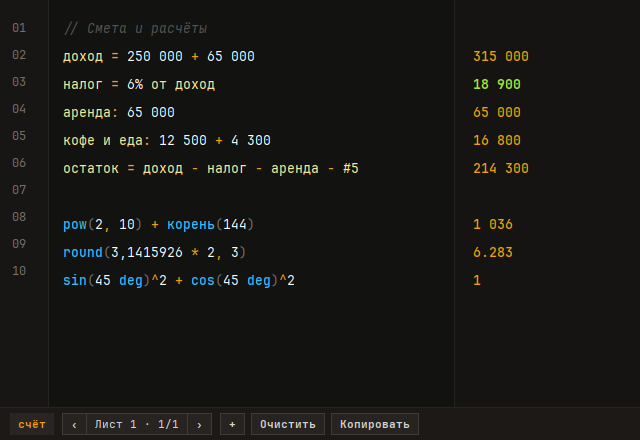
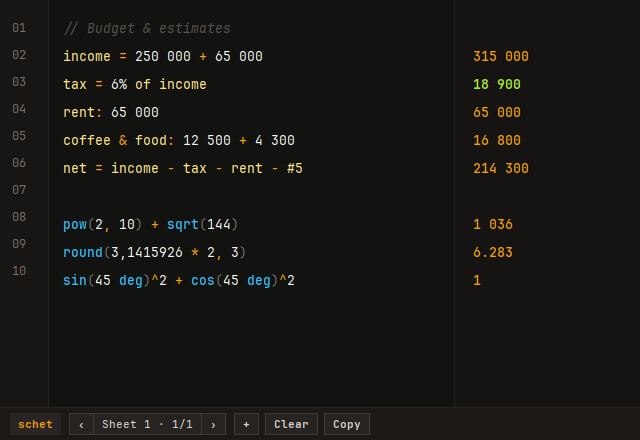
Switch README and screenshots to English, add automatic locale UI detection

diff --git a/src/main.rs b/src/main.rs
@@ -23,12 +23,34 @@ struct AppState {
     pages: Vec<Page>,
 }
 
+fn is_russian_locale() -> bool {
+    if let Ok(lang) = std::env::var("SCHET_LANG") {
+        return lang.to_lowercase().starts_with("ru");
+    }
+    for var in ["LC_ALL", "LC_MESSAGES", "LANG"] {
+        if let Ok(val) = std::env::var(var) {
+            if !val.is_empty() {
+                return val.to_lowercase().starts_with("ru");
+            }
+        }
+    }
+    true
+}
+
+fn default_page_title(num: usize) -> String {
+    if is_russian_locale() {
+        format!("Лист {}", num)
+    } else {
+        format!("Sheet {}", num)
+    }
+}
+
 impl Default for AppState {
     fn default() -> Self {
         Self {
             active_page: 0,
             pages: vec![Page {
-                title: "Лист 1".to_string(),
+                title: default_page_title(1),
                 content: String::new(),
             }],
         }
@@ -46,18 +68,23 @@ fn state_file_path() -> PathBuf {
 }
 
 fn load_state() -> AppState {
+    let ru = is_russian_locale();
     let path = state_file_path();
     if let Ok(raw) = fs::read_to_string(path) {
         if let Ok(mut st) = serde_json::from_str::<AppState>(&raw) {
             if st.pages.is_empty() {
                 st.pages.push(Page {
-                    title: "Лист 1".to_string(),
+                    title: default_page_title(1),
                     content: String::new(),
                 });
             }
             for p in &mut st.pages {
-                if let Some(num) = p.title.strip_prefix("Page ") {
-                    p.title = format!("Лист {}", num);
+                if ru {
+                    if let Some(num) = p.title.strip_prefix("Page ").or_else(|| p.title.strip_prefix("Sheet ")) {
+                        p.title = format!("Лист {}", num);
+                    }
+                } else if let Some(num) = p.title.strip_prefix("Лист ").or_else(|| p.title.strip_prefix("Page ")) {
+                    p.title = format!("Sheet {}", num);
                 }
             }
             if st.active_page >= st.pages.len() {
@@ -426,25 +453,26 @@ fn main() {
     scrolled.add(&split_box);
     root_box.pack_start(&scrolled, true, true, 0);
 
-    // --- Single Bottom Hardware Bar (Russian, no auto-sum) ---
+    // --- Single Bottom Hardware Bar (locale-aware, no auto-sum) ---
+    let ru = is_russian_locale();
     let bottom_bar = gtk::Box::new(gtk::Orientation::Horizontal, 6);
     bottom_bar.style_context().add_class("bottom-bar");
 
-    let brand_label = gtk::Label::new(Some("счёт"));
+    let brand_label = gtk::Label::new(Some(if ru { "счёт" } else { "schet" }));
     brand_label.style_context().add_class("brand-label");
     bottom_bar.pack_start(&brand_label, false, false, 0);
 
     let page_nav_box = gtk::Box::new(gtk::Orientation::Horizontal, 0);
     let prev_page_btn = gtk::Button::with_label("‹");
     prev_page_btn.style_context().add_class("flat-btn");
-    prev_page_btn.set_tooltip_text(Some("Предыдущий лист"));
+    prev_page_btn.set_tooltip_text(Some(if ru { "Предыдущий лист" } else { "Previous sheet" }));
 
-    let page_title_label = gtk::Label::new(Some("Лист 1 · 1/1"));
+    let page_title_label = gtk::Label::new(Some(if ru { "Лист 1 · 1/1" } else { "Sheet 1 · 1/1" }));
     page_title_label.style_context().add_class("page-pill");
 
     let next_page_btn = gtk::Button::with_label("›");
     next_page_btn.style_context().add_class("flat-btn");
-    next_page_btn.set_tooltip_text(Some("Следующий лист"));
+    next_page_btn.set_tooltip_text(Some(if ru { "Следующий лист" } else { "Next sheet" }));
 
     page_nav_box.pack_start(&prev_page_btn, false, false, 0);
     page_nav_box.pack_start(&page_title_label, false, false, 0);
@@ -453,17 +481,17 @@ fn main() {
 
     let new_page_btn = gtk::Button::with_label("+");
     new_page_btn.style_context().add_class("flat-btn");
-    new_page_btn.set_tooltip_text(Some("Новый лист (Ctrl+N)"));
+    new_page_btn.set_tooltip_text(Some(if ru { "Новый лист (Ctrl+N)" } else { "New sheet (Ctrl+N)" }));
     bottom_bar.pack_start(&new_page_btn, false, false, 0);
 
-    let clear_btn = gtk::Button::with_label("Очистить");
+    let clear_btn = gtk::Button::with_label(if ru { "Очистить" } else { "Clear" });
     clear_btn.style_context().add_class("flat-btn");
-    clear_btn.set_tooltip_text(Some("Очистить лист (Ctrl+L)"));
+    clear_btn.set_tooltip_text(Some(if ru { "Очистить лист (Ctrl+L)" } else { "Clear sheet (Ctrl+L)" }));
     bottom_bar.pack_start(&clear_btn, false, false, 0);
 
-    let copy_all_btn = gtk::Button::with_label("Копировать");
+    let copy_all_btn = gtk::Button::with_label(if ru { "Копировать" } else { "Copy" });
     copy_all_btn.style_context().add_class("flat-btn");
-    copy_all_btn.set_tooltip_text(Some("Скопировать все ответы"));
+    copy_all_btn.set_tooltip_text(Some(if ru { "Скопировать все ответы" } else { "Copy all results" }));
     bottom_bar.pack_start(&copy_all_btn, false, false, 0);
 
     let status_right = gtk::Label::new(Some(""));
@@ -676,7 +704,11 @@ fn main() {
                     let formatted = format_number(*val);
                     let clip = gtk::Clipboard::get(&gdk::SELECTION_CLIPBOARD);
                     clip.set_text(&formatted);
-                    status_right.set_text(&format!("Скопировано: {}", formatted));
+                    if ru {
+                        status_right.set_text(&format!("Скопировано: {}", formatted));
+                    } else {
+                        status_right.set_text(&format!("Copied: {}", formatted));
+                    }
                 }
             }
             glib::Propagation::Proceed
@@ -743,7 +775,7 @@ fn main() {
                         let active = st.active_page;
                         st.pages.remove(active);
                         for (idx, p) in st.pages.iter_mut().enumerate() {
-                            p.title = format!("Лист {}", idx + 1);
+                            p.title = default_page_title(idx + 1);
                         }
                         if st.active_page >= st.pages.len() {
                             st.active_page = st.pages.len() - 1;
@@ -756,12 +788,12 @@ fn main() {
                 };
                 if removed {
                     load_active_page();
-                    status_right.set_text("Лист удалён");
+                    status_right.set_text(if ru { "Лист удалён" } else { "Sheet deleted" });
                     return;
                 }
             }
             input_buf.set_text("");
-            status_right.set_text("Очищено");
+            status_right.set_text(if ru { "Очищено" } else { "Cleared" });
         });
     }
 
@@ -778,7 +810,11 @@ fn main() {
             let joined = lines.join("\n");
             let clip = gtk::Clipboard::get(&gdk::SELECTION_CLIPBOARD);
             clip.set_text(&joined);
-            status_right.set_text(&format!("Скопировано строк: {}", lines.len()));
+            if ru {
+                status_right.set_text(&format!("Скопировано строк: {}", lines.len()));
+            } else {
+                status_right.set_text(&format!("Copied lines: {}", lines.len()));
+            }
         });
     }
 
@@ -791,7 +827,7 @@ fn main() {
                 let mut st = state.borrow_mut();
                 let next_num = st.pages.len() + 1;
                 st.pages.push(Page {
-                    title: format!("Лист {}", next_num),
+                    title: default_page_title(next_num),
                     content: String::new(),
                 });
                 st.active_page = st.pages.len() - 1;

diff --git a/README.md b/README.md
@@ -1,85 +1,85 @@
-# счёт (`schet`)
+# schet (`счёт`)
 
-**Блокнотный калькулятор на чистом Rust + GTK3 для тех, кто устал кормить отдельный браузер шестью сотнями мегабайт оперативки ради того, чтобы поделить счёт за пиццу или прикинуть налог.**
+**A native Rust + GTK3 notepad calculator built because feeding 700+ MB of RAM to an entire Chromium instance just to split a pizza bill or figure out taxes is ridiculous.**
 
-`счёт` вдохновлён [Numara Calculator](https://github.com/bornova/numara-calculator) и Soulver, но выкидывает за борт Electron, Chromium, Node.js, WebKitGTK и две тысячи пакетов из `node_modules`. Взамен — один нативный бинарник весом **472 КБ**, холодный старт быстрее кадра твоего монитора и **12.6 МБ** собственной памяти.
+`schet` takes the best ideas from [Numara Calculator](https://github.com/bornova/numara-calculator) and Soulver, then throws Electron, Chromium, Node.js, WebKitGTK, and two thousand `node_modules` packages out the window. What remains is a single **472 KB** native binary, cold start faster than a single monitor frame, and **12.6 MB** of actual private memory.
 
-![Счёт — Тёмная и светлая темы](assets/dark.png)
-![Счёт — Светлая тема](assets/light.png)
+![schet — Dark theme](assets/dark.png)
+![schet — Light theme](assets/light.png)
 
 ---
 
-## Зачем это нужно (в цифрах, а не обещаниях)
+## Why I built this (in numbers, not marketing)
 
-Мы честно пытались пойти компромиссным путём и сначала пересадили фронтенд Numara (`mathjs` + `CodeMirror`) на Tauri / Wry поверх системного `WebKitGTK`. Спойлер: браузерный движок остаётся браузерным движком, даже если приклеить к нему шильдик «Rust».
+I initially tried the lazy route: ripping Electron out of Numara and wrapping its `mathjs` + `CodeMirror` frontend in Tauri / Wry on top of the system `WebKitGTK`. Spoiler: a browser engine is still a browser engine even if you slap a "Built with Rust" sticker on the box.
 
-Реальные замеры по `/proc/<pid>/smaps_rollup` на одной и той же странице расчётов (Arch Linux / Wayland / Niri):
+Here are the real memory measurements from `/proc/<pid>/smaps_rollup` on the exact same calculation sheet (Arch Linux / Wayland / Niri):
 
-| Вариант | Стек | Процессы | Размер бинарника | RSS (общая) | PSS | Private Dirty (реально сожрано) |
+| Build | Stack | Processes | Binary Size | Total RSS | PSS | Private Dirty (actual footprint) |
 | :--- | :--- | :---: | :---: | :---: | :---: | :---: |
-| **Numara (`numara-bin`)** | Electron 45 + Chromium + V8 | 6 | ~180 МБ | 738.2 МБ | 378.9 МБ | **178.6 МБ** |
-| **Wry / Tauri прототип** | Rust + WebKitGTK 4.1 + JavaScriptCore | 4 | 3.5 МБ | 509.9 МБ | 361.8 МБ | **225.7 МБ** |
-| **`счёт` (`schet`)** | **Rust + GTK3 (нативный рендер и парсер)** | **1** | **472 КБ** | **73.6 МБ** | **34.0 МБ** | **12.6 МБ** |
+| **Numara (`numara-bin`)** | Electron 45 + Chromium + V8 | 6 | ~180 MB | 738.2 MB | 378.9 MB | **178.6 MB** |
+| **Wry / Tauri prototype** | Rust + WebKitGTK 4.1 + JavaScriptCore | 4 | 3.5 MB | 509.9 MB | 361.8 MB | **225.7 MB** |
+| **`schet`** | **Pure Rust + GTK3 (native UI & parser)** | **1** | **472 KB** | **73.6 MB** | **34.0 MB** | **12.6 MB** |
 
-Никаких фоновых воркеров, сетевых запросов, телеметрии, автоапдейтеров и скрытых заголовков окон. Открыл — посчитал — скопировал ответ кликом.
+Zero background workers, zero network calls, zero telemetry, zero auto-updaters, and no bulky titlebars. Open it, type your math, click an answer to copy, move on.
 
 ---
 
-## Что умеет движок
+## What the engine understands
 
-Собственный рекурсивный парсер (`src/eval.rs`) без единой внешней математической зависимости понимает живой человеческий текст вперемешку с формулами:
+`schet` runs a custom recursive-descent parser (`src/eval.rs`) with zero external math crates. It evaluates messy human notes mixed with formulas on every keystroke:
 
-- **Переменные и метки на русском и английском:**
+- **Variables, labels, and compound assignments (English & Cyrillic):**
   ```text
-  доход = 250 000 + 65 000        -> 315 000
-  налог = 6% от доход             -> 18 900
-  аренда: 65 000                  -> 65 000
-  кофе и еда: 12 500 + 4 300      -> 16 800
-  доход += 50к                    -> 365 000
+  income = 250 000 + 65 000       -> 315 000
+  tax = 6% of income              -> 18 900
+  rent: 65 000                    -> 65 000
+  coffee: 12 500 + 4 300          -> 16 800
+  income += 50k                   -> 365 000
   ```
-- **Числа с пробелами и запятыми без боли при копипасте:**
-  Скопировал `315 000` из колонки ответов или банковской выписки и вставил обратно в формулу? `счёт` не развалится и поймёт группировку разрядов (`250 000 + 65 000`), суффиксы (`15k`, `250к`, `2.5m`, `1.2м`, `1b`), шестнадцатеричные (`0xff`), двоичные (`0b1010`) числа и десятичную запятую (`3,14 * 2`), при этом не путая её с разделителем аргументов в `round(3,1415926 * 2, 3)` или `pow(2,10)`.
-- **Проценты по-человечески:**
+- **Copy-paste friendly numbers & decimal commas:**
+  Copied `315 000` from the answer rail or a bank statement and pasted it back into an expression? `schet` doesn't choke on space-grouped thousands (`250 000 + 65 000`), understands magnitude suffixes (`15k`, `250к`, `2.5m`, `1.2м`, `1b`), hex (`0xff`), binary (`0b1010`), and decimal commas (`3,14 * 2`) — while still telling a decimal comma apart from function argument commas in `round(3,1415926 * 2, 3)` or `pow(2,10)`.
+- **Human-style percentages:**
   - `1250 + 20%` → `1 500`
   - `1250 - 20%` → `1 000`
   - `20% of 1250` / `6% от 250к` / `15% из 80 000`
   - `120 / (1 + 20%)` → `100`
-- **Ссылки на строки и агрегации по блокам:**
-  - `#1`, `#5`, `line2`, `строка1` — подставить результат конкретной строки.
-  - `prev`, `ans`, `_`, `пред`, `ответ` — результат предыдущей вычисленной строки.
-  - `sum` / `total` / `сумма` / `итого` и `avg` / `mean` / `среднее` — сумма или среднее по текущему блоку строк (до пустой строки) либо по переданным аргументам.
-- **Математические функции и градусы:**
+- **Line references & block aggregations:**
+  - `#1`, `#5`, `line2`, `строка1` — reference the result of any specific line.
+  - `prev`, `ans`, `_`, `пред`, `ответ` — grab the previous evaluated line's result.
+  - `sum` / `total` / `сумма` / `итого` and `avg` / `mean` / `среднее` — sum or average the current contiguous block of lines (up to an empty line) or explicit arguments.
+- **Built-in math functions, degrees & operators:**
   - `sqrt` (`корень`), `cbrt`, `abs` (`модуль`), `round(x, [n])` (`окр`), `floor`, `ceil`, `trunc`
-  - `pow(a, b)` (`степень`), `min(...)` (`мин`), `max(...)` (`макс`), `fact(n)` и постфиксный факториал `5!`
+  - `pow(a, b)` (`степень`), `min(...)` (`мин`), `max(...)` (`макс`), `fact(n)` and postfix factorial `5!`
   - `sin`, `cos`, `tan`, `asin`, `acos`, `atan`, `sinh`, `cosh`, `tanh`, `ln`, `log`, `log2`, `log10`, `exp`
-  - Постфикс `deg` / `°` / `град`: `sin(45 deg)^2 + cos(45°)^2` → `1`
-  - Целочисленное деление `10 // 3` → `3` и остаток `10 % 3` / `10 mod 3` → `1` (умно отличает `10 // 3` от текстового комментария `250к // зарплата`).
+  - Degree postfixes `deg` / `°` / `град`: `sin(45 deg)^2 + cos(45°)^2` → `1`
+  - Integer division `10 // 3` → `3` and modulo `10 % 3` / `10 mod 3` → `1` (smart enough to distinguish `10 // 3` from an inline comment like `250k // salary`).
 
 ---
 
-## Интерфейс и управление
+## Interface & workflow
 
-- **Дизайн Amber Field без верхних рамок:** всё окно — чистый холст с нумерацией строк (`01`, `02`...) и колонкой ответов справа, а все элементы управления собраны в лаконичной нижней полосе. Перетаскивать окно можно прямо за нижнюю панель.
-- **Живая синхронизация темы с системой:** автоматически переключается между графитовой тёмной (`#121210`, янтарные ответы `#F59E0B`, лаймовый ховер `#A3E635`) и чистой белой светлой темой (`#FFFFFF`, янтарно-золотые ответы `#D97706`, изумрудный ховер `#16A34A`) без перезапуска окна.
-- **Копирование в один клик:** наведи курсор на любой ответ в правой колонке — он подсветится цветом, а клик мгновенно отправит число в системный буфер обмена.
-- **Листы и автосохранение:** все расчёты и листы (`Лист 1`, `Лист 2`...) на лету сохраняются в `~/.local/share/schet/state.json`.
+- **Frameless Amber Field UI:** No wasted top titlebar or cluttered toolbar. Just a numbered gutter (`01`, `02`...), your scratchpad, the right-aligned answer rail, and a single hardware-style bottom bar (which also acts as a drag handle if you want to move the window with a mouse).
+- **Live system theme sync:** Automatically switches in real time between matte graphite Dark (`#121210`, phosphor amber answers `#F59E0B`, acid-lime hover `#A3E635`) and crisp pure-white Light (`#FFFFFF`, amber-gold answers `#D97706`, emerald hover `#16A34A`).
+- **One-click copy:** Hover over any result in the right column to highlight it, click once, and it's in your system clipboard.
+- **Multi-sheet persistence:** All sheets and notes are saved automatically to `~/.local/share/schet/state.json` as you type.
 
-### Горячие клавиши
+### Keyboard shortcuts
 
-| Сочетание | Действие |
+| Shortcut | Action |
 | :--- | :--- |
-| **Клик по ответу справа** | Скопировать конкретный ответ в буфер обмена |
-| **`Ctrl + N`** | Создать новый лист |
-| **`Ctrl + PageUp` / `Alt + Left`** | Переключиться на предыдущий лист |
-| **`Ctrl + PageDown` / `Alt + Right`** | Переключиться на следующий лист |
-| **`Ctrl + L`** | Очистить текущий лист (повторное нажатие на пустом листе удаляет его) |
-| **`Ctrl + Q` / `Ctrl + W`** | Закрыть окно |
+| **Left-click any answer** | Copy that line's result to clipboard |
+| **`Ctrl + N`** | Create a new sheet |
+| **`Ctrl + PageUp` / `Alt + Left`** | Previous sheet |
+| **`Ctrl + PageDown` / `Alt + Right`** | Next sheet |
+| **`Ctrl + L`** | Clear current sheet (pressing again on an empty extra sheet deletes it) |
+| **`Ctrl + Q` / `Ctrl + W`** | Quit |
 
 ---
 
-## Сборка и установка
+## Build & install
 
-Понадобятся только стандартный тулчейн Rust (`cargo`) и системные заголовки `gtk3`.
+All you need is a standard Rust toolchain (`cargo`) and `gtk3` development headers.
 
 ```bash
 git clone https://github.com/mqrkin/schet.git
@@ -87,10 +87,10 @@ cd schet
 cargo test
 cargo build --release
 
-# Установка бинарника в ~/.local/bin
+# Install binary to ~/.local/bin
 install -Dm755 target/release/schet ~/.local/bin/schet
 ```
 
-## Лицензия
+## License
 
 [MIT](LICENSE)
